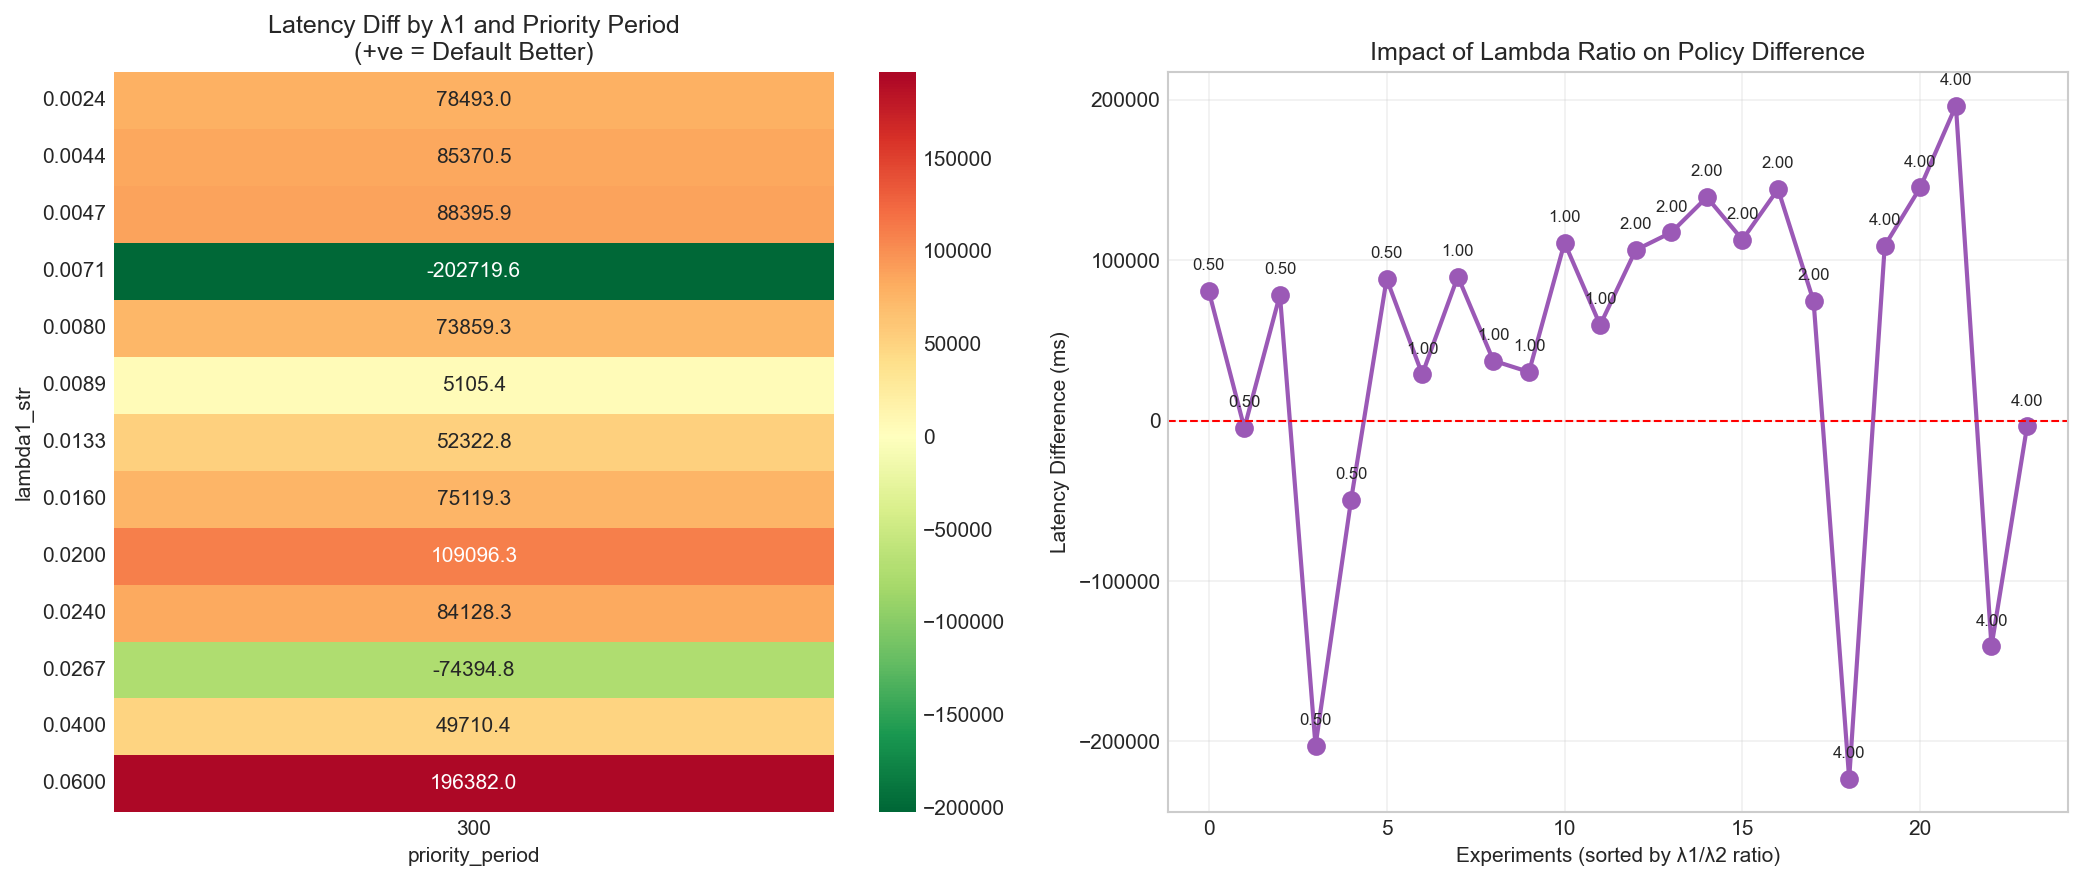
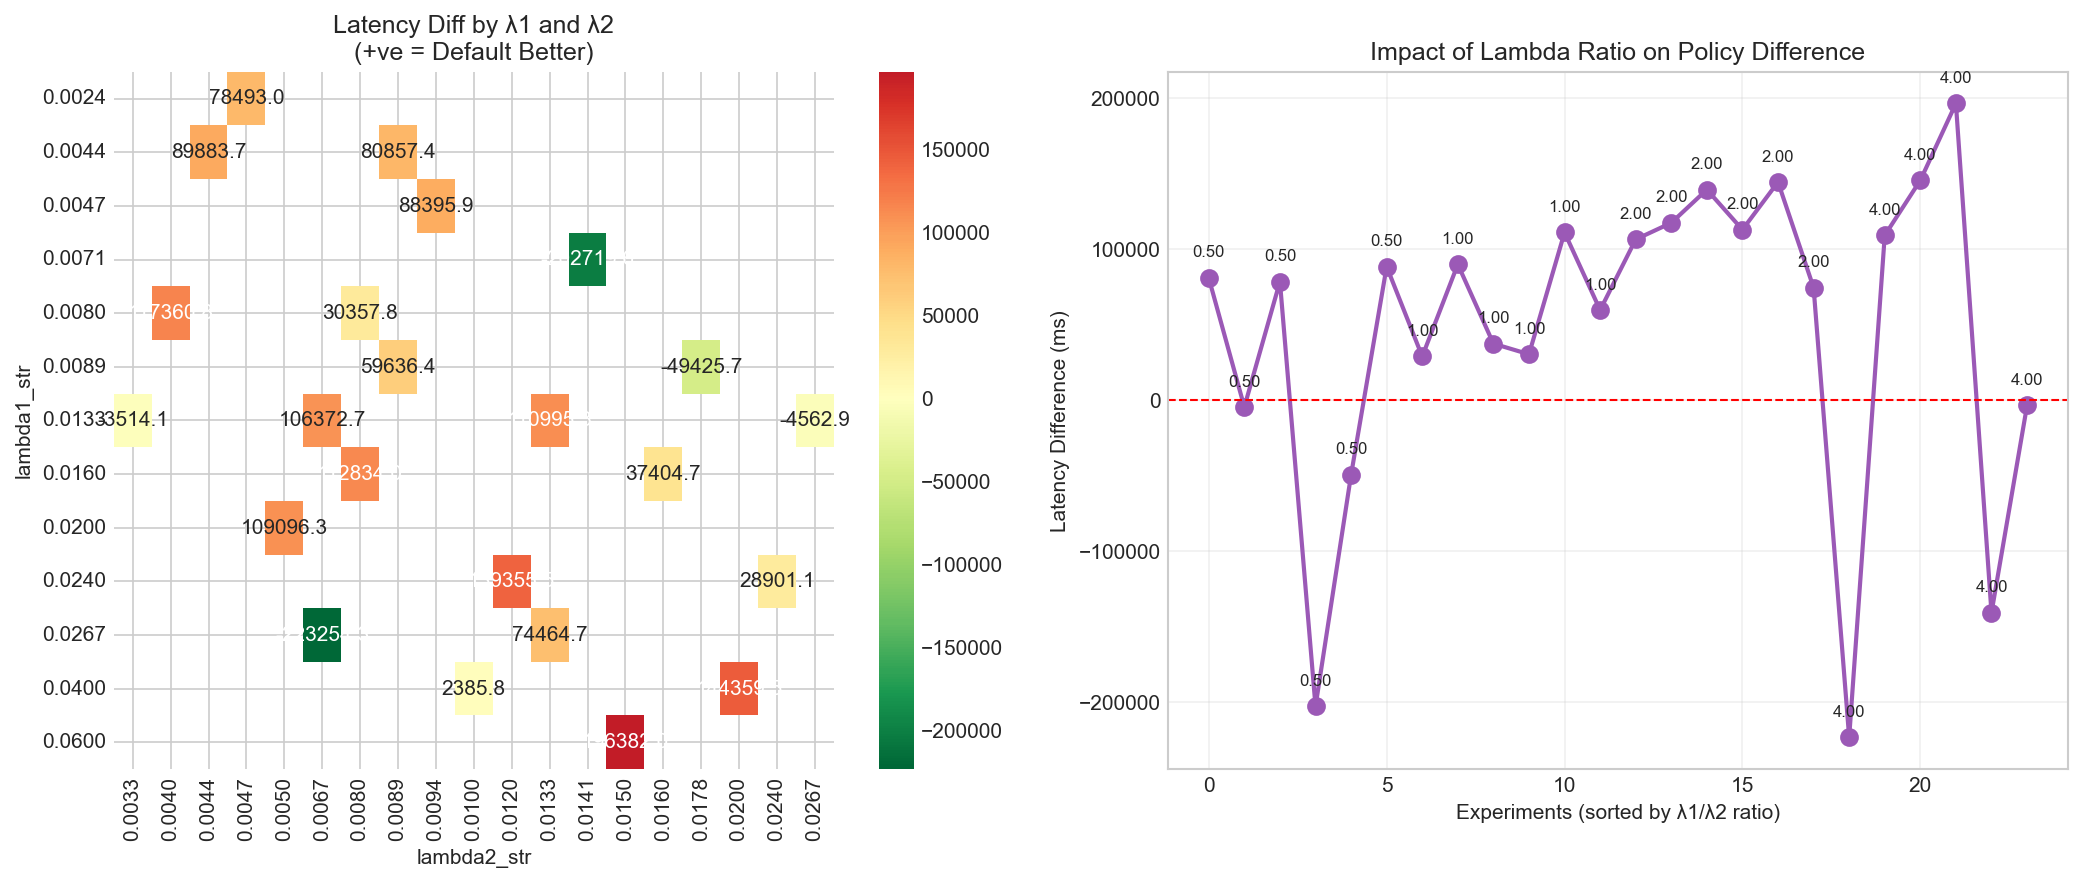
code

diff --git a/analyze_policy_comparison.py b/analyze_policy_comparison.py
@@ -27,7 +27,6 @@ class StatsData:
     filename: str
     prefix: int
     policy: str  # 'greedy' or 'default'
-    priority_period: int  # 1200 or 2400
     lambda1: float
     lambda2: float
     length: int
@@ -61,10 +60,6 @@ def parse_stats_file(filepath: str) -> Optional[StatsData]:
         policy = 'default'
     else:
         return None
-    
-    # Extract priority period (1200 or 2400)
-    period_match = re.search(r'p_(?:greedy|default)_(\d+)', filename)
-    priority_period = int(period_match.group(1)) if period_match else 0
     
     # Extract lambda values
     lambda_match = re.search(r'lam([\d.]+)_([\d.]+)', filename)
@@ -127,7 +122,6 @@ def parse_stats_file(filepath: str) -> Optional[StatsData]:
         filename=filename,
         prefix=prefix,
         policy=policy,
-        priority_period=priority_period,
         lambda1=lambda1,
         lambda2=lambda2,
         length=length,
@@ -152,8 +146,7 @@ def find_pairs(stats_list: List[StatsData]) -> List[Tuple[StatsData, StatsData]]
             if (abs(greedy_data.lambda1 - default_data.lambda1) < 0.0001 and
                 abs(greedy_data.lambda2 - default_data.lambda2) < 0.0001 and
                 greedy_data.length == default_data.length and
-                greedy_data.seed == default_data.seed and
-                greedy_data.priority_period == default_data.priority_period):
+                greedy_data.seed == default_data.seed):
                 pairs.append((greedy_data, default_data))
     
     return sorted(pairs, key=lambda x: x[0].prefix)
@@ -168,7 +161,6 @@ def compute_comparison_metrics(greedy: StatsData, default: StatsData) -> Dict:
         'lambda2': greedy.lambda2,
         'total_lambda': greedy.lambda1 + greedy.lambda2,
         'lambda_ratio': greedy.lambda1 / greedy.lambda2 if greedy.lambda2 > 0 else float('inf'),
-        'priority_period': greedy.priority_period,
         'length': greedy.length,
         'seed': greedy.seed,
     }
@@ -272,17 +264,6 @@ def generate_summary_report(df: pd.DataFrame, output_dir: str):
         f.write("PARAMETER IMPACT ANALYSIS\n")
         f.write("-" * 60 + "\n\n")
         
-        # Group by priority period
-        if 'priority_period' in df.columns and df['priority_period'].nunique() > 1:
-            f.write("By Priority Period:\n")
-            for period, group in df.groupby('priority_period'):
-                f.write(f"  Period {int(period)}:\n")
-                f.write(f"    Pairs: {len(group)}\n")
-                f.write(f"    Avg Latency Diff: {group['diff_Average'].mean():+.2f} ms\n")
-                f.write(f"    Priority Query Diff: {group['priority_diff'].mean():+.2f} ms\n")
-                f.write(f"    Non-Priority Query Diff: {group['nonpriority_diff'].mean():+.2f} ms\n")
-            f.write("\n")
-        
         # Lambda impact
         f.write("By Total Lambda (Arrival Rate):\n")
         df_sorted = df.sort_values('total_lambda')
@@ -299,7 +280,7 @@ def generate_summary_report(df: pd.DataFrame, output_dir: str):
         
         for _, row in df.iterrows():
             f.write(f"Pair {int(row['greedy_prefix']):03d} (greedy) vs {int(row['default_prefix']):03d} (default)\n")
-            f.write(f"  λ1={row['lambda1']:.6f}, λ2={row['lambda2']:.6f}, period={int(row['priority_period'])}\n")
+            f.write(f"  λ1={row['lambda1']:.6f}, λ2={row['lambda2']:.6f}\n")
             f.write(f"  Greedy Avg: {row['greedy_Average']:.2f} ms\n")
             f.write(f"  Default Avg: {row['default_Average']:.2f} ms\n")
             f.write(f"  Diff: {row['diff_Average']:+.2f} ms ({row['pct_diff_Average']:+.2f}%)\n")
@@ -359,14 +340,16 @@ def create_visualizations(df: pd.DataFrame, output_dir: str):
     
     # Plot 4: Lambda vs Latency Difference scatter
     ax = axes[1, 1]
+    # Filter out infinite lambda ratios for color mapping
+    finite_ratio = df['lambda_ratio'].replace([np.inf, -np.inf], np.nan)
     scatter = ax.scatter(df['total_lambda'], df['diff_Average'], 
-                        c=df['priority_period'], cmap='viridis', 
+                        c=finite_ratio, cmap='viridis', 
                         s=100, alpha=0.7, edgecolors='black')
     ax.axhline(y=0, color='red', linestyle='--', linewidth=1, label='Equal Performance')
     ax.set_xlabel('Total Lambda (λ1 + λ2)')
     ax.set_ylabel('Latency Difference (Greedy - Default) ms')
     ax.set_title('Impact of Arrival Rate on Policy Difference')
-    plt.colorbar(scatter, ax=ax, label='Priority Period')
+    plt.colorbar(scatter, ax=ax, label='Lambda Ratio (λ1/λ2)')
     ax.grid(True, alpha=0.3)
     ax.legend()
     
@@ -409,12 +392,12 @@ def create_visualizations(df: pd.DataFrame, output_dir: str):
         try:
             pivot = df_pivot.pivot_table(values='diff_Average', 
                                          index='lambda1_str', 
-                                         columns='priority_period', 
+                                         columns='lambda2_str', 
                                          aggfunc='mean')
             if pivot.size > 1:
                 sns.heatmap(pivot, annot=True, fmt='.1f', cmap='RdYlGn_r', 
                            center=0, ax=axes[0])
-                axes[0].set_title('Latency Diff by λ1 and Priority Period\n(+ve = Default Better)')
+                axes[0].set_title('Latency Diff by λ1 and λ2\n(+ve = Default Better)')
         except:
             axes[0].text(0.5, 0.5, 'Insufficient data variation\nfor heatmap', 
                         ha='center', va='center', transform=axes[0].transAxes)
